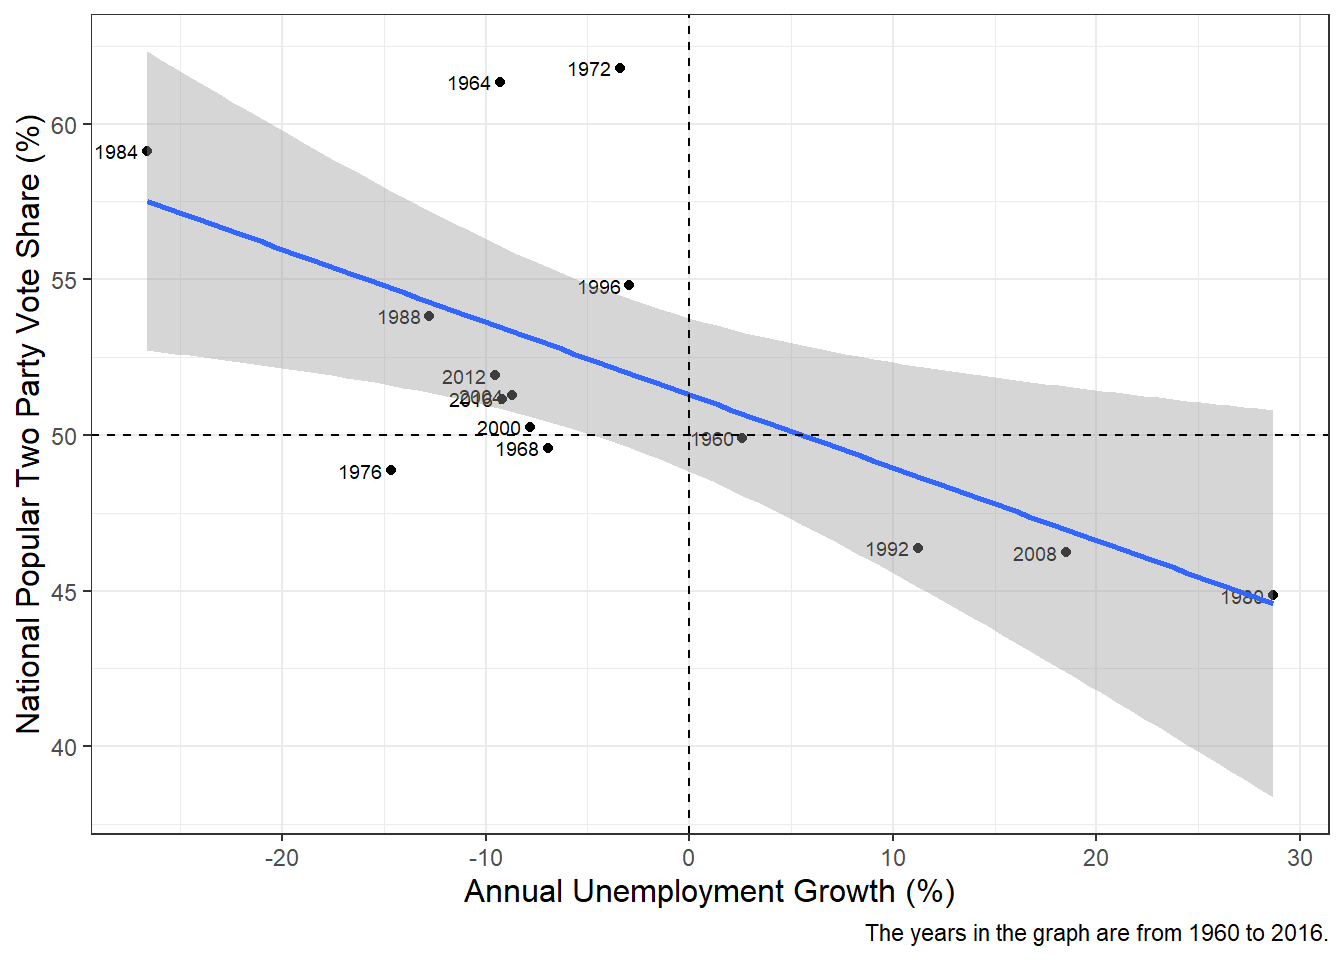
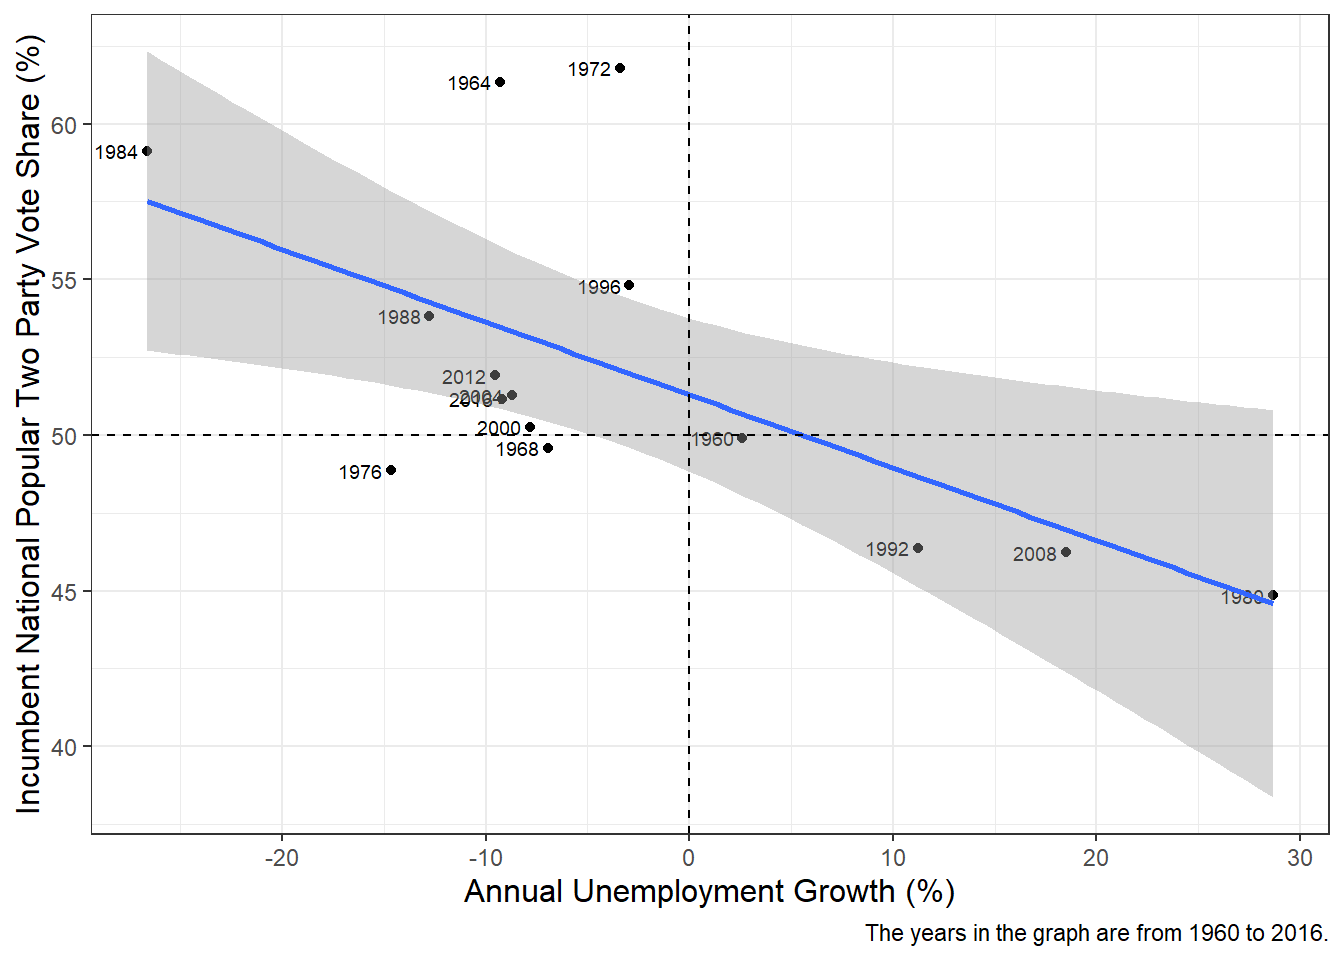
j

Changed region(s): [[0.0, 0.0312, 0.0312, 0.8438]]

diff --git a/public/post/2024/09/16/post-2-modeling-using-the-economy/index.html b/public/post/2024/09/16/post-2-modeling-using-the-economy/index.html
@@ -42,7 +42,8 @@
 <caption style="font-weight: bold; text-align:left;">Regression Table for Quarterly RDPI Growth (1960-2016)</caption>
 <tr>
 <th style="border-top: double; text-align:center; font-style:normal; font-weight:bold; padding:0.2cm;  text-align:left; ">&nbsp;</th>
-<th colspan="4" style="border-top: double; text-align:center; font-style:normal; font-weight:bold; padding:0.2cm; ">National Popular Two Party Vote Share (%)</th>
+<th colspan="4" style="border-top: double; text-align:center; font-style:normal; font-weight:bold; padding:0.2cm; ">Incumbent
+ National Popular Two Party Vote Share (%)</th>
 </tr>
 <tr>
 <td style=" text-align:center; border-bottom:1px solid; font-style:italic; font-weight:normal;  text-align:left; ">Predictors</td>
@@ -79,7 +80,8 @@
 <caption style="font-weight: bold; text-align:left;">Regression Table for Annual RDPI Growth (1960-2016)</caption>
 <tr>
 <th style="border-top: double; text-align:center; font-style:normal; font-weight:bold; padding:0.2cm;  text-align:left; ">&nbsp;</th>
-<th colspan="4" style="border-top: double; text-align:center; font-style:normal; font-weight:bold; padding:0.2cm; ">National Popular Two Party Vote Share (%)</th>
+<th colspan="4" style="border-top: double; text-align:center; font-style:normal; font-weight:bold; padding:0.2cm; ">Incumbent
+ National Popular Two Party Vote Share (%)</th>
 </tr>
 <tr>
 <td style=" text-align:center; border-bottom:1px solid; font-style:italic; font-weight:normal;  text-align:left; ">Predictors</td>
@@ -111,7 +113,8 @@
 <td style=" padding:0.2cm; text-align:left; vertical-align:top; padding-top:0.1cm; padding-bottom:0.1cm; text-align:left;" colspan="4">0.374 / 0.325</td>
 </tr>
 </table>
-<p>Table: <span id="tab:unnamed-chunk-10"></span>Table 1: <strong>Predicted 2024  National Popular Two Party Vote Share based on RDPI Growth</strong></p>
+<p>Table: <span id="tab:unnamed-chunk-10"></span>Table 1: <strong>Predicted 2024 Incumbent
+National Popular Two Party Vote Share based on RDPI Growth</strong></p>
 <table>
   <thead>
       <tr>
@@ -142,7 +145,8 @@
 <caption style="font-weight: bold; text-align:left;">Regression Table for Quarterly S&P 500 Growth (1960-2016)</caption>
 <tr>
 <th style="border-top: double; text-align:center; font-style:normal; font-weight:bold; padding:0.2cm;  text-align:left; ">&nbsp;</th>
-<th colspan="4" style="border-top: double; text-align:center; font-style:normal; font-weight:bold; padding:0.2cm; ">National Popular Two Party Vote Share (%)</th>
+<th colspan="4" style="border-top: double; text-align:center; font-style:normal; font-weight:bold; padding:0.2cm; ">Incumbent
+ National Popular Two Party Vote Share (%)</th>
 </tr>
 <tr>
 <td style=" text-align:center; border-bottom:1px solid; font-style:italic; font-weight:normal;  text-align:left; ">Predictors</td>
@@ -179,7 +183,8 @@
 <caption style="font-weight: bold; text-align:left;">Regression Table for Annual S&P 500 Growth (1960-2016)</caption>
 <tr>
 <th style="border-top: double; text-align:center; font-style:normal; font-weight:bold; padding:0.2cm;  text-align:left; ">&nbsp;</th>
-<th colspan="4" style="border-top: double; text-align:center; font-style:normal; font-weight:bold; padding:0.2cm; ">National Popular Two Party Vote Share (%)</th>
+<th colspan="4" style="border-top: double; text-align:center; font-style:normal; font-weight:bold; padding:0.2cm; ">Incumbent
+ National Popular Two Party Vote Share (%)</th>
 </tr>
 <tr>
 <td style=" text-align:center; border-bottom:1px solid; font-style:italic; font-weight:normal;  text-align:left; ">Predictors</td>
@@ -217,7 +222,8 @@
 <caption style="font-weight: bold; text-align:left;">Regression Table for Quarterly Unemployment Growth (1960-2016)</caption>
 <tr>
 <th style="border-top: double; text-align:center; font-style:normal; font-weight:bold; padding:0.2cm;  text-align:left; ">&nbsp;</th>
-<th colspan="4" style="border-top: double; text-align:center; font-style:normal; font-weight:bold; padding:0.2cm; ">National Popular Two Party Vote Share (%)</th>
+<th colspan="4" style="border-top: double; text-align:center; font-style:normal; font-weight:bold; padding:0.2cm; ">Incumbent
+ National Popular Two Party Vote Share (%)</th>
 </tr>
 <tr>
 <td style=" text-align:center; border-bottom:1px solid; font-style:italic; font-weight:normal;  text-align:left; ">Predictors</td>
@@ -254,7 +260,8 @@
 <caption style="font-weight: bold; text-align:left;">Regression Table for Annual Unemployment Growth (1960-2016)</caption>
 <tr>
 <th style="border-top: double; text-align:center; font-style:normal; font-weight:bold; padding:0.2cm;  text-align:left; ">&nbsp;</th>
-<th colspan="4" style="border-top: double; text-align:center; font-style:normal; font-weight:bold; padding:0.2cm; ">National Popular Two Party Vote Share (%)</th>
+<th colspan="4" style="border-top: double; text-align:center; font-style:normal; font-weight:bold; padding:0.2cm; ">Incumbent
+ National Popular Two Party Vote Share (%)</th>
 </tr>
 <tr>
 <td style=" text-align:center; border-bottom:1px solid; font-style:italic; font-weight:normal;  text-align:left; ">Predictors</td>
@@ -286,7 +293,8 @@
 <td style=" padding:0.2cm; text-align:left; vertical-align:top; padding-top:0.1cm; padding-bottom:0.1cm; text-align:left;" colspan="4">0.380 / 0.332</td>
 </tr>
 </table>
-<p>Table: <span id="tab:unnamed-chunk-19"></span>Table 2: <strong>Predicted 2024 National Popular Two Party Vote Share based on Unemployment Growth</strong></p>
+<p>Table: <span id="tab:unnamed-chunk-19"></span>Table 2: <strong>Predicted 2024 Incumbent
+National Popular Two Party Vote Share based on Unemployment Growth</strong></p>
 <table>
   <thead>
       <tr>

diff --git a/content/post/2024-09-16-post-2-modeling-using-the-economy/index.md b/content/post/2024-09-16-post-2-modeling-using-the-economy/index.md
@@ -28,7 +28,8 @@ Data Limitations
 <caption style="font-weight: bold; text-align:left;">Regression Table for Quarterly RDPI Growth (1960-2016)</caption>
 <tr>
 <th style="border-top: double; text-align:center; font-style:normal; font-weight:bold; padding:0.2cm;  text-align:left; ">&nbsp;</th>
-<th colspan="4" style="border-top: double; text-align:center; font-style:normal; font-weight:bold; padding:0.2cm; ">National Popular Two Party Vote Share (%)</th>
+<th colspan="4" style="border-top: double; text-align:center; font-style:normal; font-weight:bold; padding:0.2cm; ">Incumbent
+ National Popular Two Party Vote Share (%)</th>
 </tr>
 <tr>
 <td style=" text-align:center; border-bottom:1px solid; font-style:italic; font-weight:normal;  text-align:left; ">Predictors</td>
@@ -74,7 +75,8 @@ Data Limitations
 <caption style="font-weight: bold; text-align:left;">Regression Table for Annual RDPI Growth (1960-2016)</caption>
 <tr>
 <th style="border-top: double; text-align:center; font-style:normal; font-weight:bold; padding:0.2cm;  text-align:left; ">&nbsp;</th>
-<th colspan="4" style="border-top: double; text-align:center; font-style:normal; font-weight:bold; padding:0.2cm; ">National Popular Two Party Vote Share (%)</th>
+<th colspan="4" style="border-top: double; text-align:center; font-style:normal; font-weight:bold; padding:0.2cm; ">Incumbent
+ National Popular Two Party Vote Share (%)</th>
 </tr>
 <tr>
 <td style=" text-align:center; border-bottom:1px solid; font-style:italic; font-weight:normal;  text-align:left; ">Predictors</td>
@@ -115,7 +117,8 @@ Data Limitations
 
 
 
-Table: <span id="tab:unnamed-chunk-10"></span>Table 1: **Predicted 2024  National Popular Two Party Vote Share based on RDPI Growth**
+Table: <span id="tab:unnamed-chunk-10"></span>Table 1: **Predicted 2024 Incumbent
+ National Popular Two Party Vote Share based on RDPI Growth**
 
 |Independent Variable  | Predicted Two Party Vote Share| Lower Bound (95% CI)| Upper Bound (95% CI)|
 |:---------------------|------------------------------:|--------------------:|--------------------:|
@@ -131,7 +134,8 @@ Table: <span id="tab:unnamed-chunk-10"></span>Table 1: **Predicted 2024  Nationa
 <caption style="font-weight: bold; text-align:left;">Regression Table for Quarterly S&P 500 Growth (1960-2016)</caption>
 <tr>
 <th style="border-top: double; text-align:center; font-style:normal; font-weight:bold; padding:0.2cm;  text-align:left; ">&nbsp;</th>
-<th colspan="4" style="border-top: double; text-align:center; font-style:normal; font-weight:bold; padding:0.2cm; ">National Popular Two Party Vote Share (%)</th>
+<th colspan="4" style="border-top: double; text-align:center; font-style:normal; font-weight:bold; padding:0.2cm; ">Incumbent
+ National Popular Two Party Vote Share (%)</th>
 </tr>
 <tr>
 <td style=" text-align:center; border-bottom:1px solid; font-style:italic; font-weight:normal;  text-align:left; ">Predictors</td>
@@ -177,7 +181,8 @@ Table: <span id="tab:unnamed-chunk-10"></span>Table 1: **Predicted 2024  Nationa
 <caption style="font-weight: bold; text-align:left;">Regression Table for Annual S&P 500 Growth (1960-2016)</caption>
 <tr>
 <th style="border-top: double; text-align:center; font-style:normal; font-weight:bold; padding:0.2cm;  text-align:left; ">&nbsp;</th>
-<th colspan="4" style="border-top: double; text-align:center; font-style:normal; font-weight:bold; padding:0.2cm; ">National Popular Two Party Vote Share (%)</th>
+<th colspan="4" style="border-top: double; text-align:center; font-style:normal; font-weight:bold; padding:0.2cm; ">Incumbent
+ National Popular Two Party Vote Share (%)</th>
 </tr>
 <tr>
 <td style=" text-align:center; border-bottom:1px solid; font-style:italic; font-weight:normal;  text-align:left; ">Predictors</td>
@@ -219,7 +224,8 @@ Table: <span id="tab:unnamed-chunk-10"></span>Table 1: **Predicted 2024  Nationa
 <caption style="font-weight: bold; text-align:left;">Regression Table for Quarterly Unemployment Growth (1960-2016)</caption>
 <tr>
 <th style="border-top: double; text-align:center; font-style:normal; font-weight:bold; padding:0.2cm;  text-align:left; ">&nbsp;</th>
-<th colspan="4" style="border-top: double; text-align:center; font-style:normal; font-weight:bold; padding:0.2cm; ">National Popular Two Party Vote Share (%)</th>
+<th colspan="4" style="border-top: double; text-align:center; font-style:normal; font-weight:bold; padding:0.2cm; ">Incumbent
+ National Popular Two Party Vote Share (%)</th>
 </tr>
 <tr>
 <td style=" text-align:center; border-bottom:1px solid; font-style:italic; font-weight:normal;  text-align:left; ">Predictors</td>
@@ -266,7 +272,8 @@ Table: <span id="tab:unnamed-chunk-10"></span>Table 1: **Predicted 2024  Nationa
 <caption style="font-weight: bold; text-align:left;">Regression Table for Annual Unemployment Growth (1960-2016)</caption>
 <tr>
 <th style="border-top: double; text-align:center; font-style:normal; font-weight:bold; padding:0.2cm;  text-align:left; ">&nbsp;</th>
-<th colspan="4" style="border-top: double; text-align:center; font-style:normal; font-weight:bold; padding:0.2cm; ">National Popular Two Party Vote Share (%)</th>
+<th colspan="4" style="border-top: double; text-align:center; font-style:normal; font-weight:bold; padding:0.2cm; ">Incumbent
+ National Popular Two Party Vote Share (%)</th>
 </tr>
 <tr>
 <td style=" text-align:center; border-bottom:1px solid; font-style:italic; font-weight:normal;  text-align:left; ">Predictors</td>
@@ -307,8 +314,8 @@ Table: <span id="tab:unnamed-chunk-10"></span>Table 1: **Predicted 2024  Nationa
 
 
 
-
-Table: <span id="tab:unnamed-chunk-19"></span>Table 2: **Predicted 2024 National Popular Two Party Vote Share based on Unemployment Growth**
+Table: <span id="tab:unnamed-chunk-19"></span>Table 2: **Predicted 2024 Incumbent
+ National Popular Two Party Vote Share based on Unemployment Growth**
 
 |Independent Variable          | Predicted Two Party Vote Share| Lower Bound (95% CI)| Upper Bound (95% CI)|
 |:-----------------------------|------------------------------:|--------------------:|--------------------:|
